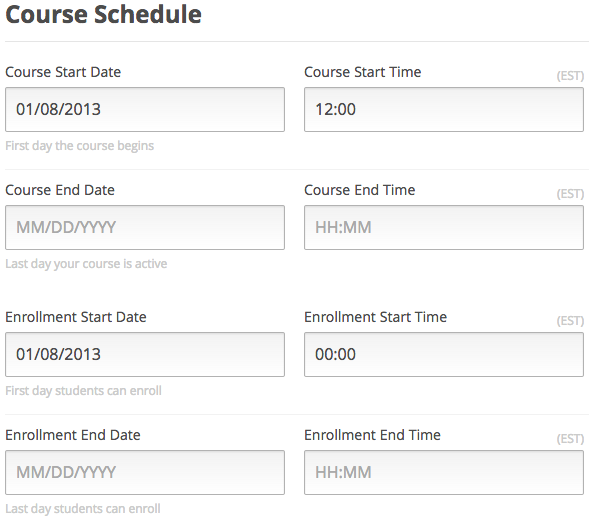
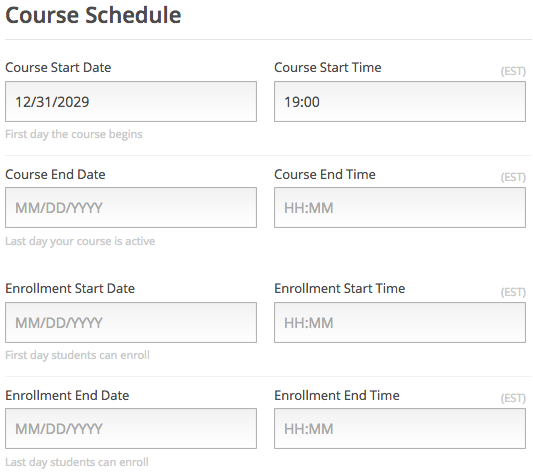
Course Start Date Changes
Doc updated for STUD-1132

diff --git a/docs/course_authors/source/create_new_course.rst b/docs/course_authors/source/create_new_course.rst
@@ -53,6 +53,12 @@ Create a New Course
 
     *Note: If your course will be open to the world, be sure to include the "x". If it is exclusively an on-campus offering, do not include the "x".* 
 
+  * For **Course Run**, enter the term your course will run. Do not include whitespace or special characters. 
+
+    The Course Run date you enter does not affect the default **Course Start Date**.  See :ref:`Set Important Dates for Your Course` for more information.
+
+
+
 4. Click **Save.**
 
 You then see the empty Course Outline.
@@ -136,6 +142,10 @@ You must set dates and times for enrollment and for the course.
 From the **Settings** menu, select **Schedule and Details**.  
 
 .. image:: Images/schedule.png
+
+.. note:: 
+
+    The default **Course Start Date** is set far into the future, to **12/31/2029**. This is to ensure that your course does not start before you intend it to.  You must change the **Course Start Date** to the date you want students to begin using the course.  
 
 Follow the on-screen text to enter the course and enrollment schedule.
 
